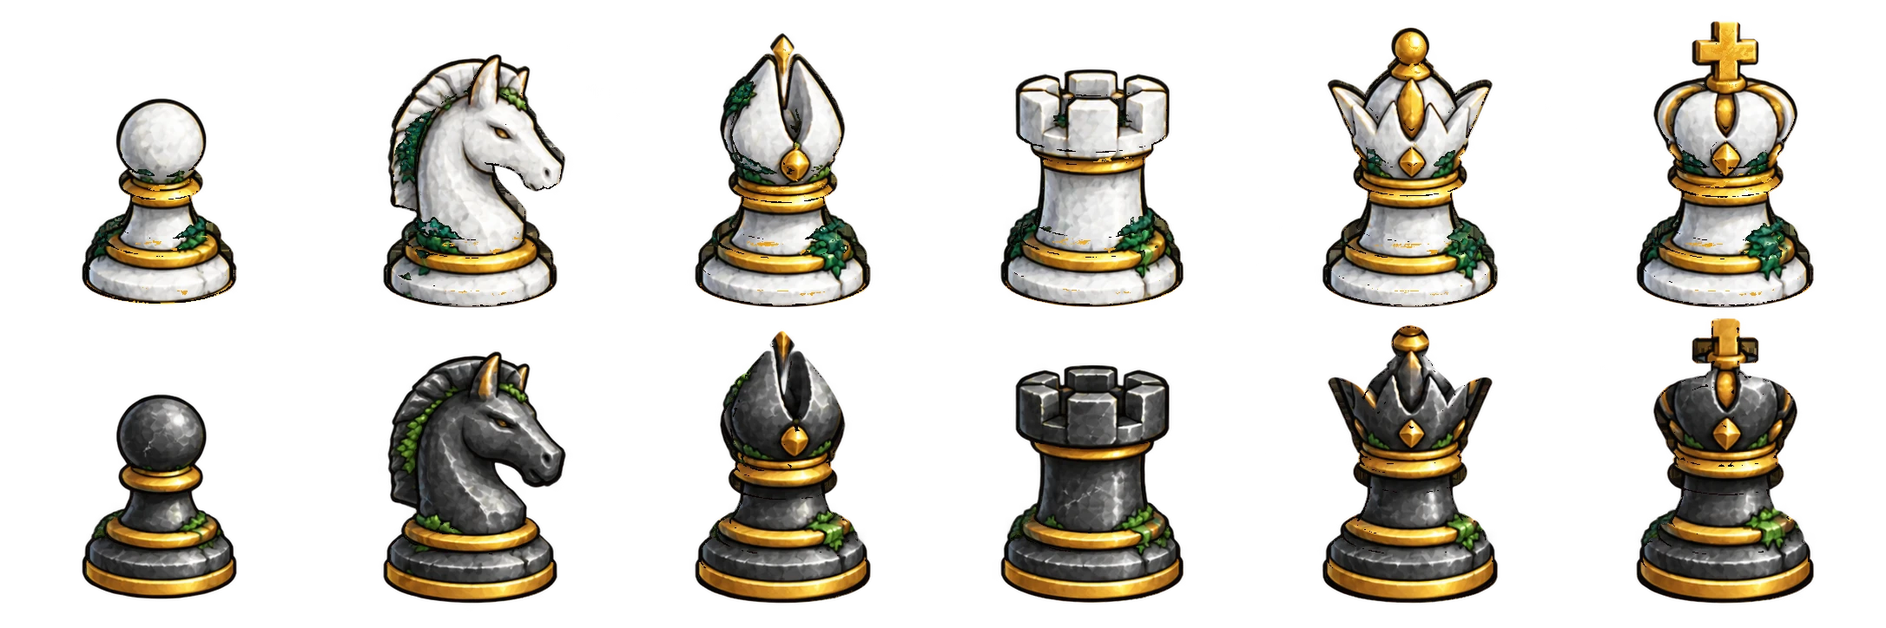
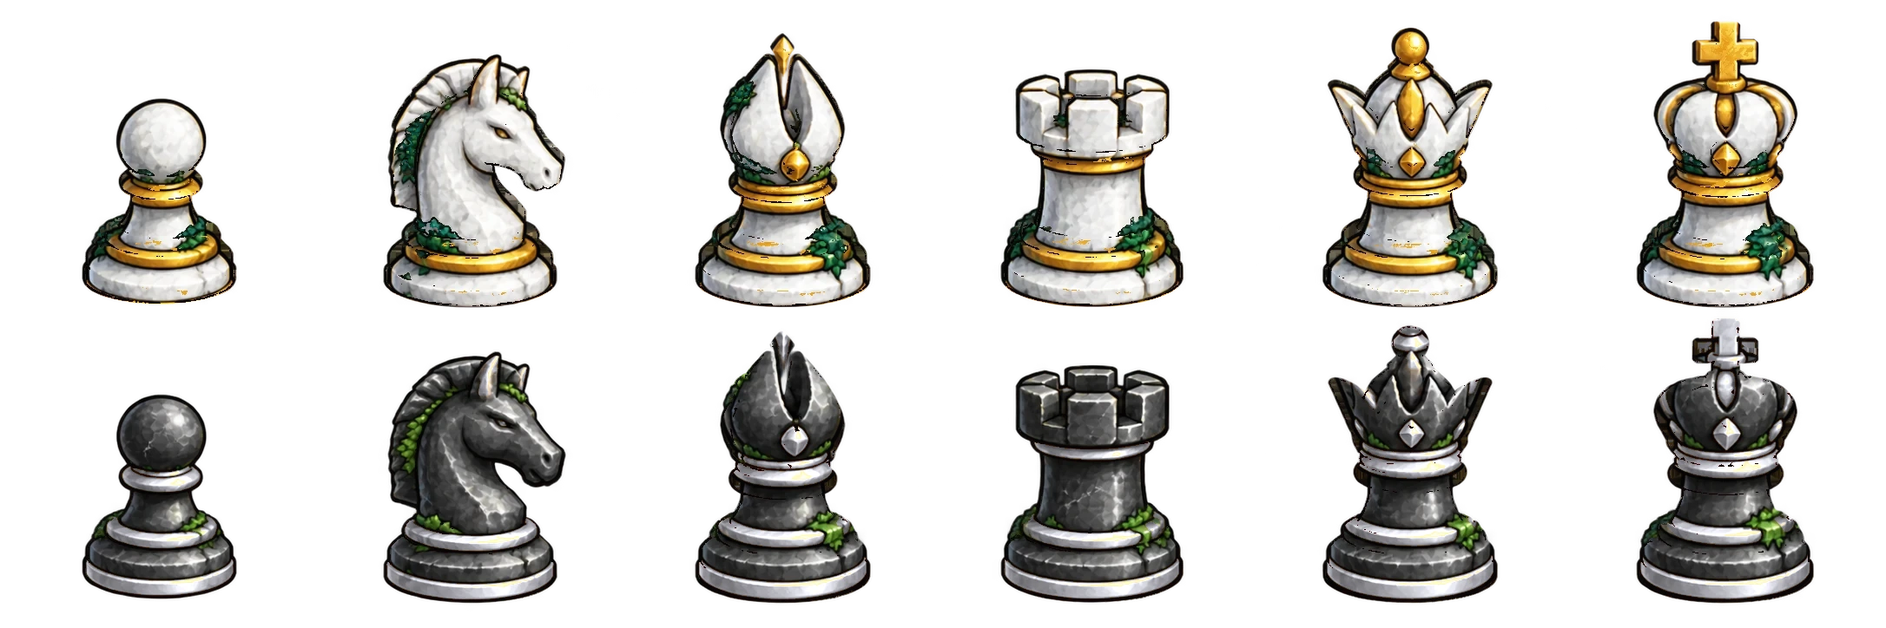
CheRPSs: painted figurines on a marble board, silver Black set, deferred arena art
- The board shows the painted figurines (same sheet as the benches) on a
  light/grey marble board; the vector pieces remain as a fallback if the
  figurine sheet fails to load.
- Black figurines and bench reactions: gold trim turned to silver, matching
  the silver Black UI.
- Only the figurine sheet loads up front; the arena art loads 1.2 s after the
  page settles, or immediately when a duel needs it.
- Square hover styles no longer stick on touch screens.

Claude-Session: https://claude.ai/code/session_019YEF7XW4WiHw6Qw2cNpGDr

diff --git a/cherpss/style.css b/cherpss/style.css
@@ -1,1 +1,1 @@
-:root{color-scheme:dark;--bg:#111b17;--panel:#19251f;--edge:#314137;--muted:#98a89c;--cream:#e9e4cd;--ivory:#f4f1ea;--ember:#b9bbc4;--green:#b9ce97}*{box-sizing:border-box}body{margin:0;background:radial-gradient(ellipse at 50% 10%,#23342a 0,var(--bg) 65%);color:var(--cream);font-family:Inter,ui-sans-serif,system-ui,-apple-system,sans-serif;font-size:14px;min-height:100vh}button,a,input,select{-webkit-tap-highlight-color:transparent}button{font:inherit;cursor:pointer}button:focus-visible,a:focus-visible,summary:focus-visible{outline:2px solid var(--green);outline-offset:4px}button:disabled{opacity:.4;cursor:not-allowed}button{border:1px solid var(--edge);border-radius:7px;background:#26372b;color:var(--cream);padding:10px 14px}@media(hover:hover){button:hover:not(:disabled){background:#334734}}button.quiet{background:transparent;padding:8px 11px;font-size:12px}@media(hover:hover){button.quiet:hover{background:#26372b}}.primary{background:var(--green);color:#152019;border:0;font-weight:750;padding:12px 20px}.primary:hover:not(:disabled){background:#d1e3b4}button.secondary{background:transparent}header{height:82px;padding:0 5%;display:flex;align-items:center;justify-content:space-between;border-bottom:1px solid var(--edge);background:#111b17c9}.brand{display:flex;align-items:center;gap:13px;text-decoration:none;color:var(--cream);font-size:17px;letter-spacing:1.4px;font-weight:800}.brand small{display:block;font-size:9px;letter-spacing:3px;color:var(--muted);margin-top:5px}.brand-mark{font-size:35px;color:var(--green);border:1px solid #40553e;width:49px;height:49px;display:grid;place-items:center;border-radius:9px}.header-actions{display:flex;align-items:center;gap:14px}.local-tag{font-size:10px;letter-spacing:1.5px;color:var(--muted)}.local-tag i{display:inline-block;width:6px;height:6px;background:var(--green);border-radius:50%;margin-right:7px}main{max-width:1320px;margin:auto;padding:28px 30px 20px}.topline{display:flex;align-items:center;justify-content:space-between;margin-bottom:24px}.eyebrow{font-size:9px;letter-spacing:1.7px;font-weight:650;color:var(--muted)}h1{font-family:Georgia,serif;font-weight:normal;letter-spacing:-.6px;margin:8px 0 0;font-size:29px}.top-tools{display:flex;gap:8px}.game-layout{display:grid;grid-template-columns:minmax(185px,1fr) minmax(360px,580px) minmax(185px,1fr);gap:22px;align-items:start}.player-panel{background:linear-gradient(160deg,#24312860,#19251f);border:1px solid var(--edge);border-radius:12px;padding:18px 15px}.player-heading{display:flex;align-items:center;gap:9px;margin-bottom:21px;flex-wrap:wrap}.team-dot{width:10px;height:10px;border-radius:50%;background:var(--ivory)}.ember .team-dot{background:var(--ember)}h2{font-family:Georgia,serif;font-size:23px;font-weight:normal;margin:0}.player-heading p{font-size:8px;letter-spacing:1.6px;color:var(--muted);margin:4px 0 0}.turn-badge{margin-left:auto;font-size:8px;letter-spacing:1px;border:1px solid #61714b;color:var(--green);border-radius:4px;padding:5px}.roster-card{position:relative;border:1px solid #3a483b;border-radius:8px;padding:12px 9px;margin-bottom:9px;display:grid;grid-template-columns:36px 1fr;gap:8px;transition:border-color .2s}.roster-card.active{border-color:var(--green);background:#34453050}.roster-card.exhausted{opacity:.4}.monster-icon{display:grid;place-items:center;font-size:24px;color:var(--ivory)}.ember .monster-icon{color:var(--ember)}.roster-card strong{font-size:13px;font-weight:650}.roster-card small{display:block;color:var(--muted);font-size:10px;margin-top:3px}.vitality-row{grid-column:1/-1;display:flex;align-items:center;gap:8px;font-size:9px;color:var(--muted)}.vitality-track{height:4px;flex:1;background:#0d1711;border-radius:3px;overflow:hidden}.vitality-track i{display:block;height:100%;background:var(--ivory)}.ember .vitality-track i{background:var(--ember)}.control-card{margin-top:21px;border-top:1px solid var(--edge);padding-top:17px;text-align:center}.control-card .eyebrow{font-size:8px}.keys{margin:12px 0 10px;line-height:30px}kbd{display:inline-flex;align-items:center;justify-content:center;min-width:24px;height:25px;background:#101b15;border:1px solid #465448;border-bottom-width:3px;border-radius:4px;font-family:inherit;font-size:11px;font-weight:600;margin:2px}.control-line{display:grid;grid-template-columns:auto 1fr;align-items:center;gap:3px;text-align:left;max-width:120px;margin:auto;font-size:11px;color:var(--muted)}.control-card p{font-size:9px;line-height:1.6;color:#829486;margin:14px 0 0}.support-card{font-size:11px;color:var(--muted);line-height:1.7;margin-top:17px}.support-card:not(:empty){border-top:1px solid var(--edge);padding-top:13px}.support-card strong{color:var(--cream);font-size:10px;display:block;margin-bottom:5px}.centre-panel{position:relative;border:1px solid var(--edge);border-radius:12px;background:#152219;overflow:hidden}.board-bar{height:48px;display:flex;align-items:center;justify-content:space-between;padding:0 16px;font-size:11px;border-bottom:1px solid var(--edge);gap:8px}.board-bar>div{display:flex;align-items:center;gap:8px}.status-dot{height:6px;width:6px;background:var(--green);border-radius:50%}#boardMode{font-size:8px;letter-spacing:1.2px;color:var(--muted)}.board-frame{padding:16px 16px 24px 30px;position:relative}#board{display:grid;grid-template-columns:repeat(8,1fr);aspect-ratio:1;border:1px solid #627360}.square{aspect-ratio:1;border:0;border-radius:0;padding:0;position:relative;display:flex;align-items:center;justify-content:center;background:#b6bea3;min-width:0}.square.dark{background:#506659}.square:hover:not(:disabled){background:#c5cbaa}.square.dark:hover:not(:disabled){background:#607a66}.square.selected{box-shadow:inset 0 0 0 4px #e2bc62;background:#94a76b}.square.last{background:#a6b58a}.square.last.dark{background:#637c54}.piece{font-family:Georgia,'DejaVu Sans',serif;font-size:clamp(28px,3.8vw,49px);line-height:1;color:#f5ebcc;filter:drop-shadow(0 2px 1px #16291acc);-webkit-text-stroke:1px #534f3d}.piece.b{color:#e69b80;-webkit-text-stroke:1px #512f27}.square.legal:after{content:'';position:absolute;width:14px;height:14px;border-radius:50%;background:#223e2670}.square.legal.capture:after{width:85%;height:85%;border:3px solid #b16b42;background:transparent}.square.check{box-shadow:inset 0 0 0 4px #d8745d}.rank-labels{position:absolute;left:11px;top:16px;bottom:24px;display:flex;flex-direction:column;justify-content:space-around;line-height:0;font-size:9px;color:var(--muted);white-space:pre-line}.file-labels{position:absolute;bottom:7px;left:30px;right:16px;display:flex;justify-content:space-around;font-size:9px;color:var(--muted)}.board-caption{padding:12px 10px;text-align:center;border-top:1px solid var(--edge);font-size:10px;color:var(--muted);line-height:1.5}.bottom-row{display:flex;justify-content:space-between;gap:30px;align-items:start;margin-top:24px}.match-note p{font-size:11px;color:var(--muted);line-height:1.6}.match-note b{color:var(--cream);font-weight:550}.match-note p span{margin:0 9px}.history{width:260px;position:relative;font-size:11px;color:var(--muted)}summary{cursor:pointer;padding:9px 0;border-bottom:1px solid var(--edge)}summary span{float:right;font-size:10px}.history ol{max-height:160px;overflow:auto;padding-left:20px;font-size:10px;line-height:1.8}.save-note{text-align:center;color:#75877a;font-size:9px;margin:22px 0 0}.arena-hud{display:grid;grid-template-columns:1fr 74px 1fr;align-items:center;gap:14px;padding:14px 16px}.arena-hud>div:last-child{text-align:right}.hud-name{font-size:11px;margin-bottom:6px;font-weight:650}.hp-track{height:8px;background:#0b140e;border-radius:3px;overflow:hidden}.hp-track i{display:block;height:100%;background:var(--ivory)}#hud-b .hp-track i{background:var(--ember)}.hud-sub{font-size:8px;color:var(--muted);margin-top:5px}.arena-clock{text-align:center!important}.arena-clock strong{font-family:Georgia,serif;font-size:28px;font-weight:normal}.arena-clock span{display:block;font-size:7px;letter-spacing:1px;color:var(--muted);margin-top:3px}.canvas-wrap{position:relative;margin:0 12px 12px;border:1px solid #536248;border-radius:6px;overflow:hidden}canvas{display:block;width:100%;aspect-ratio:1;background:#273b2b}.stage-overlay{position:absolute;inset:48px 0 0;background:#142018f5;z-index:4;padding:30px 24px;display:flex;align-items:center;justify-content:center;text-align:center;overflow:auto}.stage-content{width:100%}.stage-content h2{font-size:32px;margin:10px 0 13px}.stage-content>p{color:var(--muted);font-size:12px;line-height:1.7;max-width:370px;margin:0 auto 15px}.pick-columns{display:grid;grid-template-columns:1fr 1fr;gap:18px;margin-top:25px}.pick-box{padding:20px 10px;border:1px solid var(--edge);border-radius:8px}.pick-box strong{font-family:Georgia,serif;font-size:22px;font-weight:normal}.pick-box .choice-line{font-size:11px;color:var(--muted);line-height:2;margin-top:13px}.ready-state{margin-top:15px!important;font-size:10px!important;color:var(--green)!important;letter-spacing:1px}.stage-actions{display:flex;justify-content:center;gap:10px;margin-top:22px;flex-wrap:wrap}.support-preview{margin-top:25px;padding:15px;border-top:1px solid var(--edge);font-size:10px;color:var(--muted);line-height:1.7}.result-pill{display:inline-block;padding:6px 12px;border:1px solid var(--edge);border-radius:5px;font-size:10px;letter-spacing:1px;margin:5px 0 14px;color:var(--green)}.pause-overlay{position:absolute;inset:0;background:#101b16df;display:grid;align-content:center;justify-items:center;gap:16px;z-index:3}.pause-overlay p{margin:0;color:var(--muted)}dialog{background:#19271e;color:var(--cream);border:1px solid #536448;border-radius:13px;padding:32px;max-width:740px;width:calc(100% - 32px);max-height:90vh}dialog::backdrop{background:#070f0acc;backdrop-filter:blur(5px)}dialog h2{font-size:32px;margin:10px 0 20px}.dialog-close{position:absolute;right:16px;top:14px;border:0;background:transparent;font-size:24px;padding:0 6px;color:var(--muted)}.rules-grid{display:grid;grid-template-columns:1fr 1fr;gap:8px 26px}.rules-grid h3{font-size:12px;color:var(--green)}.rules-grid p,dialog>p{font-size:12px;line-height:1.7;color:var(--muted)}.rules-grid b{color:var(--cream);font-weight:600}.small-note{font-size:10px!important;margin:20px 0}#newDialog{max-width:410px}label{display:block;font-size:11px;color:var(--muted);margin:18px 0}select{width:100%;font:inherit;background:#101b15;border:1px solid var(--edge);color:var(--cream);padding:11px;border-radius:6px;margin-top:7px}#promotionDialog{max-width:440px}#promotionOptions{display:flex;gap:8px}#promotionOptions button{font-size:28px;flex:1}#promotionOptions small{display:block;font-size:9px}#toast{position:fixed;bottom:24px;left:50%;transform:translateX(-50%);padding:12px 18px;background:#d5e1bd;color:#132015;border-radius:7px;font-size:12px;z-index:20;max-width:90vw;box-shadow:0 8px 40px #0004}[hidden]{display:none!important}@media(max-width:1050px){main{padding:22px 18px}.game-layout{gap:12px;grid-template-columns:minmax(150px,1fr) minmax(330px,520px) minmax(150px,1fr)}.player-panel{padding:14px 10px}.turn-badge{margin-left:19px}.roster-card{grid-template-columns:27px 1fr;padding:10px 6px}.control-card .eyebrow{letter-spacing:.6px}.piece{font-size:clamp(25px,4.4vw,45px)}}@media(max-width:760px){header{height:68px;padding:0 16px}.brand{font-size:13px;gap:9px}.brand-mark{width:37px;height:37px;font-size:27px}.header-actions{gap:5px}.local-tag{display:none}.topline{align-items:start;gap:15px}.top-tools{flex-direction:column}h1{font-size:24px;max-width:240px}.game-layout{grid-template-columns:1fr 1fr;gap:12px}.centre-panel{grid-column:1/-1;grid-row:1}.player-panel{grid-row:2}.player-heading{margin-bottom:12px}.control-card{margin-top:14px}.piece{font-size:clamp(28px,8vw,49px)}main{padding:20px 12px}.bottom-row{flex-direction:column;gap:8px}.history{width:100%}.match-note p span{margin:0 4px}.roster-card{grid-template-columns:25px 1fr}.stage-overlay{padding:22px 14px}.stage-content h2{font-size:28px}.pick-columns{gap:10px;margin-top:15px}.pick-box{padding:14px 5px}.rules-grid{grid-template-columns:1fr}dialog{padding:25px}.board-caption{font-size:9px}.save-note{font-size:9px}.header-actions button{font-size:10px;padding:7px}.arena-hud{padding:12px;gap:8px}}
+:root{color-scheme:dark;--bg:#111b17;--panel:#19251f;--edge:#314137;--muted:#98a89c;--cream:#e9e4cd;--ivory:#f4f1ea;--ember:#b9bbc4;--green:#b9ce97}*{box-sizing:border-box}body{margin:0;background:radial-gradient(ellipse at 50% 10%,#23342a 0,var(--bg) 65%);color:var(--cream);font-family:Inter,ui-sans-serif,system-ui,-apple-system,sans-serif;font-size:14px;min-height:100vh}button,a,input,select{-webkit-tap-highlight-color:transparent}button{font:inherit;cursor:pointer}button:focus-visible,a:focus-visible,summary:focus-visible{outline:2px solid var(--green);outline-offset:4px}button:disabled{opacity:.4;cursor:not-allowed}button{border:1px solid var(--edge);border-radius:7px;background:#26372b;color:var(--cream);padding:10px 14px}@media(hover:hover){button:hover:not(:disabled){background:#334734}}button.quiet{background:transparent;padding:8px 11px;font-size:12px}@media(hover:hover){button.quiet:hover{background:#26372b}}.primary{background:var(--green);color:#152019;border:0;font-weight:750;padding:12px 20px}.primary:hover:not(:disabled){background:#d1e3b4}button.secondary{background:transparent}header{height:82px;padding:0 5%;display:flex;align-items:center;justify-content:space-between;border-bottom:1px solid var(--edge);background:#111b17c9}.brand{display:flex;align-items:center;gap:13px;text-decoration:none;color:var(--cream);font-size:17px;letter-spacing:1.4px;font-weight:800}.brand small{display:block;font-size:9px;letter-spacing:3px;color:var(--muted);margin-top:5px}.brand-mark{font-size:35px;color:var(--green);border:1px solid #40553e;width:49px;height:49px;display:grid;place-items:center;border-radius:9px}.header-actions{display:flex;align-items:center;gap:14px}.local-tag{font-size:10px;letter-spacing:1.5px;color:var(--muted)}.local-tag i{display:inline-block;width:6px;height:6px;background:var(--green);border-radius:50%;margin-right:7px}main{max-width:1320px;margin:auto;padding:28px 30px 20px}.topline{display:flex;align-items:center;justify-content:space-between;margin-bottom:24px}.eyebrow{font-size:9px;letter-spacing:1.7px;font-weight:650;color:var(--muted)}h1{font-family:Georgia,serif;font-weight:normal;letter-spacing:-.6px;margin:8px 0 0;font-size:29px}.top-tools{display:flex;gap:8px}.game-layout{display:grid;grid-template-columns:minmax(185px,1fr) minmax(360px,580px) minmax(185px,1fr);gap:22px;align-items:start}.player-panel{background:linear-gradient(160deg,#24312860,#19251f);border:1px solid var(--edge);border-radius:12px;padding:18px 15px}.player-heading{display:flex;align-items:center;gap:9px;margin-bottom:21px;flex-wrap:wrap}.team-dot{width:10px;height:10px;border-radius:50%;background:var(--ivory)}.ember .team-dot{background:var(--ember)}h2{font-family:Georgia,serif;font-size:23px;font-weight:normal;margin:0}.player-heading p{font-size:8px;letter-spacing:1.6px;color:var(--muted);margin:4px 0 0}.turn-badge{margin-left:auto;font-size:8px;letter-spacing:1px;border:1px solid #61714b;color:var(--green);border-radius:4px;padding:5px}.roster-card{position:relative;border:1px solid #3a483b;border-radius:8px;padding:12px 9px;margin-bottom:9px;display:grid;grid-template-columns:36px 1fr;gap:8px;transition:border-color .2s}.roster-card.active{border-color:var(--green);background:#34453050}.roster-card.exhausted{opacity:.4}.monster-icon{display:grid;place-items:center;font-size:24px;color:var(--ivory)}.ember .monster-icon{color:var(--ember)}.roster-card strong{font-size:13px;font-weight:650}.roster-card small{display:block;color:var(--muted);font-size:10px;margin-top:3px}.vitality-row{grid-column:1/-1;display:flex;align-items:center;gap:8px;font-size:9px;color:var(--muted)}.vitality-track{height:4px;flex:1;background:#0d1711;border-radius:3px;overflow:hidden}.vitality-track i{display:block;height:100%;background:var(--ivory)}.ember .vitality-track i{background:var(--ember)}.control-card{margin-top:21px;border-top:1px solid var(--edge);padding-top:17px;text-align:center}.control-card .eyebrow{font-size:8px}.keys{margin:12px 0 10px;line-height:30px}kbd{display:inline-flex;align-items:center;justify-content:center;min-width:24px;height:25px;background:#101b15;border:1px solid #465448;border-bottom-width:3px;border-radius:4px;font-family:inherit;font-size:11px;font-weight:600;margin:2px}.control-line{display:grid;grid-template-columns:auto 1fr;align-items:center;gap:3px;text-align:left;max-width:120px;margin:auto;font-size:11px;color:var(--muted)}.control-card p{font-size:9px;line-height:1.6;color:#829486;margin:14px 0 0}.support-card{font-size:11px;color:var(--muted);line-height:1.7;margin-top:17px}.support-card:not(:empty){border-top:1px solid var(--edge);padding-top:13px}.support-card strong{color:var(--cream);font-size:10px;display:block;margin-bottom:5px}.centre-panel{position:relative;border:1px solid var(--edge);border-radius:12px;background:#152219;overflow:hidden}.board-bar{height:48px;display:flex;align-items:center;justify-content:space-between;padding:0 16px;font-size:11px;border-bottom:1px solid var(--edge);gap:8px}.board-bar>div{display:flex;align-items:center;gap:8px}.status-dot{height:6px;width:6px;background:var(--green);border-radius:50%}#boardMode{font-size:8px;letter-spacing:1.2px;color:var(--muted)}.board-frame{padding:16px 16px 24px 30px;position:relative}#board{display:grid;grid-template-columns:repeat(8,1fr);aspect-ratio:1;border:1px solid #627360}.square{aspect-ratio:1;border:0;border-radius:0;padding:0;position:relative;display:flex;align-items:center;justify-content:center;background:#b6bea3;min-width:0}.square.dark{background:#506659}@media(hover:hover){.square:hover:not(:disabled){background:#c5cbaa}}@media(hover:hover){.square.dark:hover:not(:disabled){background:#607a66}}.square.selected{box-shadow:inset 0 0 0 4px #e2bc62;background:#94a76b}.square.last{background:#a6b58a}.square.last.dark{background:#637c54}.piece{font-family:Georgia,'DejaVu Sans',serif;font-size:clamp(28px,3.8vw,49px);line-height:1;color:#f5ebcc;filter:drop-shadow(0 2px 1px #16291acc);-webkit-text-stroke:1px #534f3d}.piece.b{color:#e69b80;-webkit-text-stroke:1px #512f27}.square.legal:after{content:'';position:absolute;width:14px;height:14px;border-radius:50%;background:#223e2670}.square.legal.capture:after{width:85%;height:85%;border:3px solid #b16b42;background:transparent}.square.check{box-shadow:inset 0 0 0 4px #d8745d}.rank-labels{position:absolute;left:11px;top:16px;bottom:24px;display:flex;flex-direction:column;justify-content:space-around;line-height:0;font-size:9px;color:var(--muted);white-space:pre-line}.file-labels{position:absolute;bottom:7px;left:30px;right:16px;display:flex;justify-content:space-around;font-size:9px;color:var(--muted)}.board-caption{padding:12px 10px;text-align:center;border-top:1px solid var(--edge);font-size:10px;color:var(--muted);line-height:1.5}.bottom-row{display:flex;justify-content:space-between;gap:30px;align-items:start;margin-top:24px}.match-note p{font-size:11px;color:var(--muted);line-height:1.6}.match-note b{color:var(--cream);font-weight:550}.match-note p span{margin:0 9px}.history{width:260px;position:relative;font-size:11px;color:var(--muted)}summary{cursor:pointer;padding:9px 0;border-bottom:1px solid var(--edge)}summary span{float:right;font-size:10px}.history ol{max-height:160px;overflow:auto;padding-left:20px;font-size:10px;line-height:1.8}.save-note{text-align:center;color:#75877a;font-size:9px;margin:22px 0 0}.arena-hud{display:grid;grid-template-columns:1fr 74px 1fr;align-items:center;gap:14px;padding:14px 16px}.arena-hud>div:last-child{text-align:right}.hud-name{font-size:11px;margin-bottom:6px;font-weight:650}.hp-track{height:8px;background:#0b140e;border-radius:3px;overflow:hidden}.hp-track i{display:block;height:100%;background:var(--ivory)}#hud-b .hp-track i{background:var(--ember)}.hud-sub{font-size:8px;color:var(--muted);margin-top:5px}.arena-clock{text-align:center!important}.arena-clock strong{font-family:Georgia,serif;font-size:28px;font-weight:normal}.arena-clock span{display:block;font-size:7px;letter-spacing:1px;color:var(--muted);margin-top:3px}.canvas-wrap{position:relative;margin:0 12px 12px;border:1px solid #536248;border-radius:6px;overflow:hidden}canvas{display:block;width:100%;aspect-ratio:1;background:#273b2b}.stage-overlay{position:absolute;inset:48px 0 0;background:#142018f5;z-index:4;padding:30px 24px;display:flex;align-items:center;justify-content:center;text-align:center;overflow:auto}.stage-content{width:100%}.stage-content h2{font-size:32px;margin:10px 0 13px}.stage-content>p{color:var(--muted);font-size:12px;line-height:1.7;max-width:370px;margin:0 auto 15px}.pick-columns{display:grid;grid-template-columns:1fr 1fr;gap:18px;margin-top:25px}.pick-box{padding:20px 10px;border:1px solid var(--edge);border-radius:8px}.pick-box strong{font-family:Georgia,serif;font-size:22px;font-weight:normal}.pick-box .choice-line{font-size:11px;color:var(--muted);line-height:2;margin-top:13px}.ready-state{margin-top:15px!important;font-size:10px!important;color:var(--green)!important;letter-spacing:1px}.stage-actions{display:flex;justify-content:center;gap:10px;margin-top:22px;flex-wrap:wrap}.support-preview{margin-top:25px;padding:15px;border-top:1px solid var(--edge);font-size:10px;color:var(--muted);line-height:1.7}.result-pill{display:inline-block;padding:6px 12px;border:1px solid var(--edge);border-radius:5px;font-size:10px;letter-spacing:1px;margin:5px 0 14px;color:var(--green)}.pause-overlay{position:absolute;inset:0;background:#101b16df;display:grid;align-content:center;justify-items:center;gap:16px;z-index:3}.pause-overlay p{margin:0;color:var(--muted)}dialog{background:#19271e;color:var(--cream);border:1px solid #536448;border-radius:13px;padding:32px;max-width:740px;width:calc(100% - 32px);max-height:90vh}dialog::backdrop{background:#070f0acc;backdrop-filter:blur(5px)}dialog h2{font-size:32px;margin:10px 0 20px}.dialog-close{position:absolute;right:16px;top:14px;border:0;background:transparent;font-size:24px;padding:0 6px;color:var(--muted)}.rules-grid{display:grid;grid-template-columns:1fr 1fr;gap:8px 26px}.rules-grid h3{font-size:12px;color:var(--green)}.rules-grid p,dialog>p{font-size:12px;line-height:1.7;color:var(--muted)}.rules-grid b{color:var(--cream);font-weight:600}.small-note{font-size:10px!important;margin:20px 0}#newDialog{max-width:410px}label{display:block;font-size:11px;color:var(--muted);margin:18px 0}select{width:100%;font:inherit;background:#101b15;border:1px solid var(--edge);color:var(--cream);padding:11px;border-radius:6px;margin-top:7px}#promotionDialog{max-width:440px}#promotionOptions{display:flex;gap:8px}#promotionOptions button{font-size:28px;flex:1}#promotionOptions small{display:block;font-size:9px}#toast{position:fixed;bottom:24px;left:50%;transform:translateX(-50%);padding:12px 18px;background:#d5e1bd;color:#132015;border-radius:7px;font-size:12px;z-index:20;max-width:90vw;box-shadow:0 8px 40px #0004}[hidden]{display:none!important}@media(max-width:1050px){main{padding:22px 18px}.game-layout{gap:12px;grid-template-columns:minmax(150px,1fr) minmax(330px,520px) minmax(150px,1fr)}.player-panel{padding:14px 10px}.turn-badge{margin-left:19px}.roster-card{grid-template-columns:27px 1fr;padding:10px 6px}.control-card .eyebrow{letter-spacing:.6px}.piece{font-size:clamp(25px,4.4vw,45px)}}@media(max-width:760px){header{height:68px;padding:0 16px}.brand{font-size:13px;gap:9px}.brand-mark{width:37px;height:37px;font-size:27px}.header-actions{gap:5px}.local-tag{display:none}.topline{align-items:start;gap:15px}.top-tools{flex-direction:column}h1{font-size:24px;max-width:240px}.game-layout{grid-template-columns:1fr 1fr;gap:12px}.centre-panel{grid-column:1/-1;grid-row:1}.player-panel{grid-row:2}.player-heading{margin-bottom:12px}.control-card{margin-top:14px}.piece{font-size:clamp(28px,8vw,49px)}main{padding:20px 12px}.bottom-row{flex-direction:column;gap:8px}.history{width:100%}.match-note p span{margin:0 4px}.roster-card{grid-template-columns:25px 1fr}.stage-overlay{padding:22px 14px}.stage-content h2{font-size:28px}.pick-columns{gap:10px;margin-top:15px}.pick-box{padding:14px 5px}.rules-grid{grid-template-columns:1fr}dialog{padding:25px}.board-caption{font-size:9px}.save-note{font-size:9px}.header-actions button{font-size:10px;padding:7px}.arena-hud{padding:12px;gap:8px}}

diff --git a/cherpss/theme.css b/cherpss/theme.css
@@ -5,7 +5,7 @@ header{background:#1a0a00;border-color:var(--edge);height:72px}.brand{font-size:
 h1,h2,.player-heading h2,.pick-box strong,.arena-clock strong{font-family:inherit;color:var(--green);font-weight:800;letter-spacing:-.4px}h1{font-size:27px}.player-heading h2{font-size:21px}.brand small{letter-spacing:1.5px}
 button{background:rgba(255,255,255,.12);color:var(--cream);border:1px solid rgba(255,255,255,.12);border-radius:8px;font-weight:600;min-height:40px}@media(hover:hover){button:hover:not(:disabled),button.quiet:hover{background:rgba(255,255,255,.2)}}button:active:not(:disabled){transform:scale(.97)}button.quiet{background:rgba(255,255,255,.07);border-color:rgba(255,255,255,.12)}.primary{background:var(--green);color:#1a0a00;border-radius:12px}.primary:hover:not(:disabled){background:#f4cf77}
 .player-panel,.centre-panel{background:rgba(255,255,255,.045);border-color:var(--edge);border-radius:12px}.roster-card{border-color:rgba(232,192,96,.2);background:rgba(255,255,255,.025)}.roster-card.active{border-color:rgba(255,204,0,.6);background:rgba(255,204,0,.1);box-shadow:0 0 10px rgba(255,204,0,.1)}.turn-badge{background:rgba(255,204,0,.12);border-color:rgba(255,204,0,.3);color:#ffcc00}.vitality-track,.hp-track{background:#140800}.keys kbd,kbd{background:rgba(255,255,255,.06);border-color:rgba(232,192,96,.28)}
-.square{background:#c8a46a}.square.dark{background:#77512e}.square:hover:not(:disabled){background:#d4b579}.square.dark:hover:not(:disabled){background:#93663b}.square.selected{background:#d9b34e;box-shadow:inset 0 0 0 3px #ffcc00}.square.last{background:#d5b46a}.square.last.dark{background:#947337}.square.legal:after{background:#49270965}.square.legal.capture:after{border-color:#9f442b}.square.check{box-shadow:inset 0 0 0 4px #cf6249}#board{border-color:#c49a52}
+.square{background:linear-gradient(135deg,#f3efe6,#e2dccf)}.square.dark{background:linear-gradient(135deg,#a9a49b,#8f8a82)}@media(hover:hover){.square:hover:not(:disabled){background:#f8f3e6}}@media(hover:hover){.square.dark:hover:not(:disabled){background:#b8b2a7}}.square.selected{background:#e9d48f;box-shadow:inset 0 0 0 3px #c9a240}.square.last{background:#efe2b8}.square.last.dark{background:#b4a372}.square.legal:after{background:#3a352d70}.square.legal.capture:after{border-color:#9f442b}.square.check{box-shadow:inset 0 0 0 4px #cf6249}#board{border-color:#c49a52}
 .chess-vector{display:block;width:83%;height:83%;max-width:64px;max-height:64px;overflow:visible;pointer-events:none;filter:drop-shadow(0 2px 1px #1a0a0080);color:var(--ivory)}.chess-vector.b{color:#232327;--piece-outline:#d8d4cb}.chess-vector.piece-p{width:77%;height:77%}.square .chess-vector{margin:auto}#promotionOptions .chess-vector{width:50px;height:50px;margin:auto}
 .stage-overlay{background:rgba(40,25,10,.98)}.pause-overlay{background:#1a0a00e8}.pick-box{background:rgba(255,255,255,.045);border-color:rgba(255,204,0,.25)}dialog{background:rgba(40,25,10,.98);border-color:rgba(255,204,0,.3);border-radius:20px}dialog::backdrop{background:rgba(0,0,0,.85)}select{background:#1a0a00;color:var(--cream);border-color:var(--edge)}.canvas-wrap{border-color:#c49a52}.battle-note{font-size:10px;color:var(--muted);margin:10px 0 0;line-height:1.5}#autoBtn[aria-pressed=true],#hintsBtn[aria-pressed=true]{background:rgba(232,192,96,.2);border-color:rgba(232,192,96,.4);color:var(--green)}
 .touch-choices{display:flex;gap:10px;justify-content:center;margin:24px auto}.touch-choices button{flex:1;max-width:140px;padding:16px 8px;border:1px solid rgba(232,192,96,.3);background:rgba(232,192,96,.08)}.touch-choices button>span{display:block;font-size:32px;color:var(--green);margin-bottom:10px}.touch-choices button strong{display:block;font-size:13px}.touch-choices button small{display:block;color:var(--muted);font-size:9px;margin-top:6px}.auto-battles .control-card{display:none}.save-note{color:var(--muted)}.top-tools{flex-wrap:wrap;justify-content:flex-end}
@@ -15,12 +15,16 @@ button{background:rgba(255,255,255,.12);color:var(--cream);border:1px solid rgba
 .arena-open .player-panel{display:flex;flex-direction:column}.arena-open .player-heading{order:0}.arena-open .support-card{order:1;margin:0 0 18px;padding-top:0;border-top:0}.arena-open .roster{order:2}.arena-open .control-card{order:3}
 
 /* Painted supporting figurines and carved-wood bench cards. */
-.aid-figurine{display:block;flex-shrink:0;width:46px;height:50px;background-image:url('./assets/aids.webp?v=3');background-size:600% 200%;background-repeat:no-repeat;filter:drop-shadow(0 3px 2px #10060080)}.aid-figurine.w{background-position-y:0%}.aid-figurine.b{background-position-y:100%}.aid-p{background-position-x:0%}.aid-n{background-position-x:20%}.aid-b{background-position-x:40%}.aid-r{background-position-x:60%}.aid-q{background-position-x:80%}.aid-k{background-position-x:100%}
+.aid-figurine{display:block;flex-shrink:0;width:46px;height:50px;background-image:url('./assets/aids.webp?v=4');background-size:600% 200%;background-repeat:no-repeat;filter:drop-shadow(0 3px 2px #10060080)}.aid-figurine.w{background-position-y:0%}.aid-figurine.b{background-position-y:100%}.aid-p{background-position-x:0%}.aid-n{background-position-x:20%}.aid-b{background-position-x:40%}.aid-r{background-position-x:60%}.aid-q{background-position-x:80%}.aid-k{background-position-x:100%}
 .arena-open .support-card,.demo-benches .support-card{padding:14px;border:1px solid #b5864a70;border-radius:12px;background:linear-gradient(145deg,#604027a6,#2b1c12ee);box-shadow:inset 0 1px 0 #e5bc7638,inset 0 -3px 0 #10070070,0 5px 16px #10060030}.arena-open .support-card.ember,.demo-benches .ember{border-color:#bd7e5670}.bench-heading{padding:0 2px 10px;border-bottom:1px solid #b58b5635}.bench-seats{padding-top:4px}.bench-seat{padding:2px 7px;background:linear-gradient(110deg,#d7a56412,#1c110a4a),repeating-linear-gradient(0deg,#9770460d 0px,#9770460d 1px,transparent 1px,transparent 8px);border-color:#a778483b;box-shadow:inset 0 1px 0 #efc99013,inset 0 -2px 0 #0e06063d}.bench-seat b{color:#f1dcba}.bench-seat small{color:#c0a98a}.demo-benches .bench-seats{grid-template-columns:repeat(auto-fit,minmax(140px,1fr))}@media(max-width:760px){.arena-open .support-card,.demo-benches .support-card{padding:10px}.aid-figurine{width:38px;height:42px}.bench-seat{gap:4px;padding:2px}.demo-benches .bench-seats{grid-template-columns:1fr}}
 
 .games-link{display:inline-flex;white-space:nowrap;align-items:center;min-height:40px;padding:8px 11px;font-size:12px;font-weight:600;color:var(--cream);text-decoration:none;background:rgba(255,255,255,.07);border:1px solid rgba(255,255,255,.12);border-radius:8px}.games-link:hover{background:rgba(255,255,255,.2)}@media(max-width:760px){.games-link{font-size:10px;padding:5px 7px;min-height:40px}}
 
 .canvas-wrap{position:relative}.result-card{position:absolute;left:50%;top:50%;transform:translate(-50%,-50%);width:min(60%,430px);max-height:92%;overflow:auto;padding:18px 16px;text-align:center;background:rgba(26,12,4,.9);border:1px solid rgba(232,192,96,.45);border-radius:12px;box-shadow:0 10px 40px #0007;z-index:3}.result-card h2{font-size:26px;margin:8px 0 10px}.result-card>p{color:var(--muted);font-size:12px;line-height:1.6;margin:0 0 4px}.result-card .stage-actions{margin-top:14px}@media(max-width:760px){.result-card{width:70%;padding:12px 10px}.result-card h2{font-size:18px;margin:4px 0 6px}.result-card>p{font-size:10px;line-height:1.45}.result-card .result-pill{margin:2px 0 6px}.result-card .stage-actions{margin-top:8px}.result-card .primary{padding:9px 14px}}
 .pips{display:flex;gap:4px;flex:1}.pips i{width:10px;height:10px;border-radius:50%;border:1px solid var(--ivory);opacity:.45}.pips i.on{background:var(--ivory);opacity:1}.ember .pips i{border-color:var(--ember)}.ember .pips i.on{background:var(--ember)}
-.champ-icon{display:inline-block;background-image:url(assets/champions-white.webp?v=3);background-repeat:no-repeat;vertical-align:middle}.champ-icon.b{background-image:url(assets/champions-black.webp?v=3)}.champ-icon.flip{transform:scaleX(-1)}.monster-icon{overflow:visible}
+.champ-icon{display:inline-block;background-image:url(assets/champions-white.webp?v=4);background-repeat:no-repeat;vertical-align:middle}.champ-icon.b{background-image:url(assets/champions-black.webp?v=4)}.champ-icon.flip{transform:scaleX(-1)}.monster-icon{overflow:visible}
 .bench-seat.at-stake{border-color:var(--green);background:rgba(232,192,96,.12)}
+
+/* Board pieces are the painted figurines (White marble, Black stone with silver) on a marble board. */
+.board-fig{position:absolute;left:2.5%;bottom:1%;width:95%;aspect-ratio:1;background-image:url('./assets/aids.webp?v=4');background-size:600% 200%;background-repeat:no-repeat;pointer-events:none;filter:drop-shadow(0 2px 2px #0007)}.board-fig.w{background-position-y:0%}.board-fig.b{background-position-y:100%}
+.square .chess-vector{display:none}.no-figurines .square .chess-vector{display:block}.no-figurines .board-fig{display:none}

diff --git a/cherpss/art.html b/cherpss/art.html
@@ -1,4 +1,4 @@
-<!doctype html><html lang="en"><head><meta charset="utf-8"><meta name="viewport" content="width=device-width,initial-scale=1"><meta name="robots" content="noindex,nofollow"><meta name="theme-color" content="#1a0a00"><title>CheRPSs · The painted arena</title><link rel="icon" href="../favicon.svg" type="image/svg+xml"><link rel="stylesheet" href="style.css?v=3"><link rel="stylesheet" href="theme.css?v=9"><link rel="stylesheet" href="art.css?v=1"></head><body>
+<!doctype html><html lang="en"><head><meta charset="utf-8"><meta name="viewport" content="width=device-width,initial-scale=1"><meta name="robots" content="noindex,nofollow"><meta name="theme-color" content="#1a0a00"><title>CheRPSs · The painted arena</title><link rel="icon" href="../favicon.svg" type="image/svg+xml"><link rel="stylesheet" href="style.css?v=4"><link rel="stylesheet" href="theme.css?v=10"><link rel="stylesheet" href="art.css?v=1"></head><body>
 <header><a class="brand" href="./"><span class="brand-mark">♞</span><span>CheRPSs<small>BOARD & BRAWL</small></span></a><a class="back-link" href="./">Back to the game ↗</a></header>
 <main class="art-main"><div class="art-intro"><span class="eyebrow">THE PAINTED ARENA</span><h1>A little courtyard. A lot of character.</h1><p>Three illustrated champions. Two supporting benches. Watch a fight in the white realm or the black.</p></div>
 <div class="art-controls"><label>Matchup<select id="pair"><option value="rock,scissors">Rock vs Scissors</option><option value="scissors,paper">Scissors vs Paper</option><option value="paper,rock">Paper vs Rock</option><option value="rock,paper">Rock vs Paper</option><option value="scissors,rock">Scissors vs Rock</option><option value="paper,scissors">Paper vs Scissors</option></select></label><div class="palette-buttons" role="group" aria-label="Arena lighting"><button id="day" aria-pressed="true">White realm</button><button id="night" aria-pressed="false">Black realm</button></div><button id="replay">Restart fight</button><button id="pause">Pause</button><button id="sound" aria-pressed="false">Sound off</button><span id="demoStatus" role="status">The champions are getting ready.</span></div>

diff --git a/cherpss/index.html b/cherpss/index.html
@@ -3,7 +3,7 @@
 <head>
  <meta charset="utf-8"><meta name="viewport" content="width=device-width,initial-scale=1"><meta name="robots" content="noindex,nofollow">
  <meta name="theme-color" content="#1a0a00"><meta name="description" content="A local two-player game of chess and monster duels. Plan on the board. Fight in the square.">
- <title>CheRPSs — Board & Brawl</title><link rel="icon" href="../favicon.svg" type="image/svg+xml"><link rel="stylesheet" href="style.css?v=3"><link rel="stylesheet" href="theme.css?v=9">
+ <title>CheRPSs — Board & Brawl</title><link rel="icon" href="../favicon.svg" type="image/svg+xml"><link rel="stylesheet" href="style.css?v=4"><link rel="stylesheet" href="theme.css?v=10">
 </head>
 <body>
 <header><a class="brand" href="./" aria-label="CheRPSs home"><span class="brand-mark">♞</span><span>CheRPSs<small>BOARD & BRAWL</small></span></a><div class="header-actions"><a class="games-link" href="../">← Games</a><span class="local-tag"><i></i> LOCAL · 2 PLAYERS</span><button id="rulesBtn" class="quiet">How to play</button><button id="newBtn" class="quiet">New match</button></div></header>
